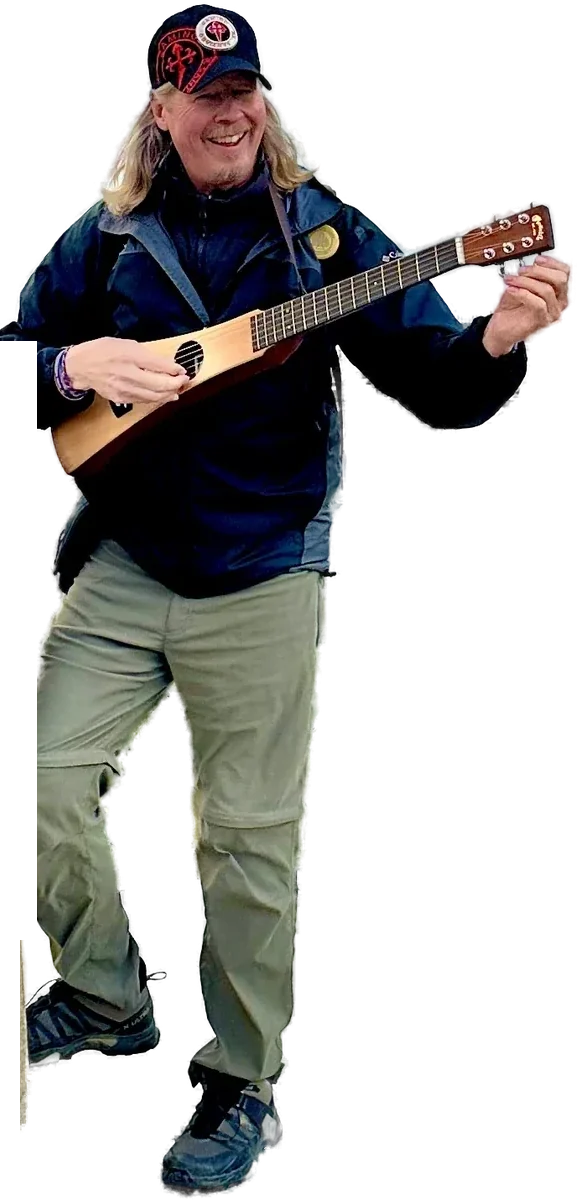
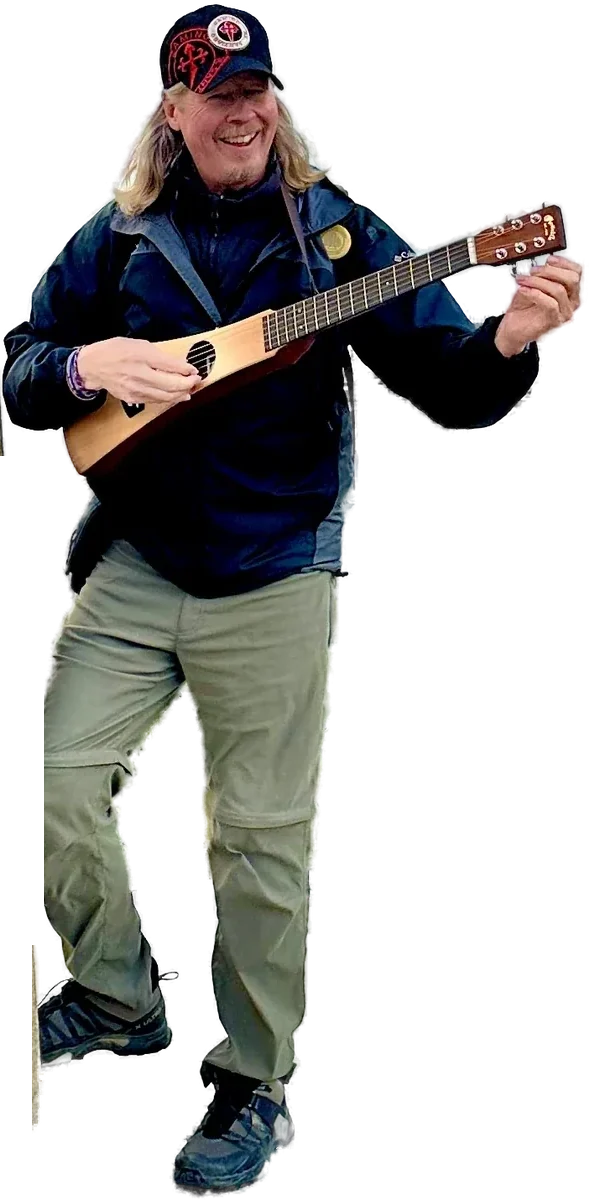
Walk: cleaner cutout edge (stone sliver removed, elbow intact)
Claude-Session: https://claude.ai/code/session_01VdFeRf8PyCiKRmonwYGv5a

Changed region(s): [[0.0, 0.0, 0.9671, 1.0], [0.8735, 0.2775, 0.9359, 0.3392], [0.7175, 0.3392, 0.7487, 0.37]]

diff --git a/index.html b/index.html
@@ -260,7 +260,7 @@
 
   <section class="walk" aria-label="The five paths">
     <div class="wrap">
-      <div class="walker" aria-hidden="true"><img src="assets/walker.webp" alt="" width="577" height="1200"></div>
+      <div class="walker" aria-hidden="true"><img src="assets/walker.webp" alt="" width="589" height="1200"></div>
 
       <div class="beat l" id="book">
         <div class="story rv from-l">
